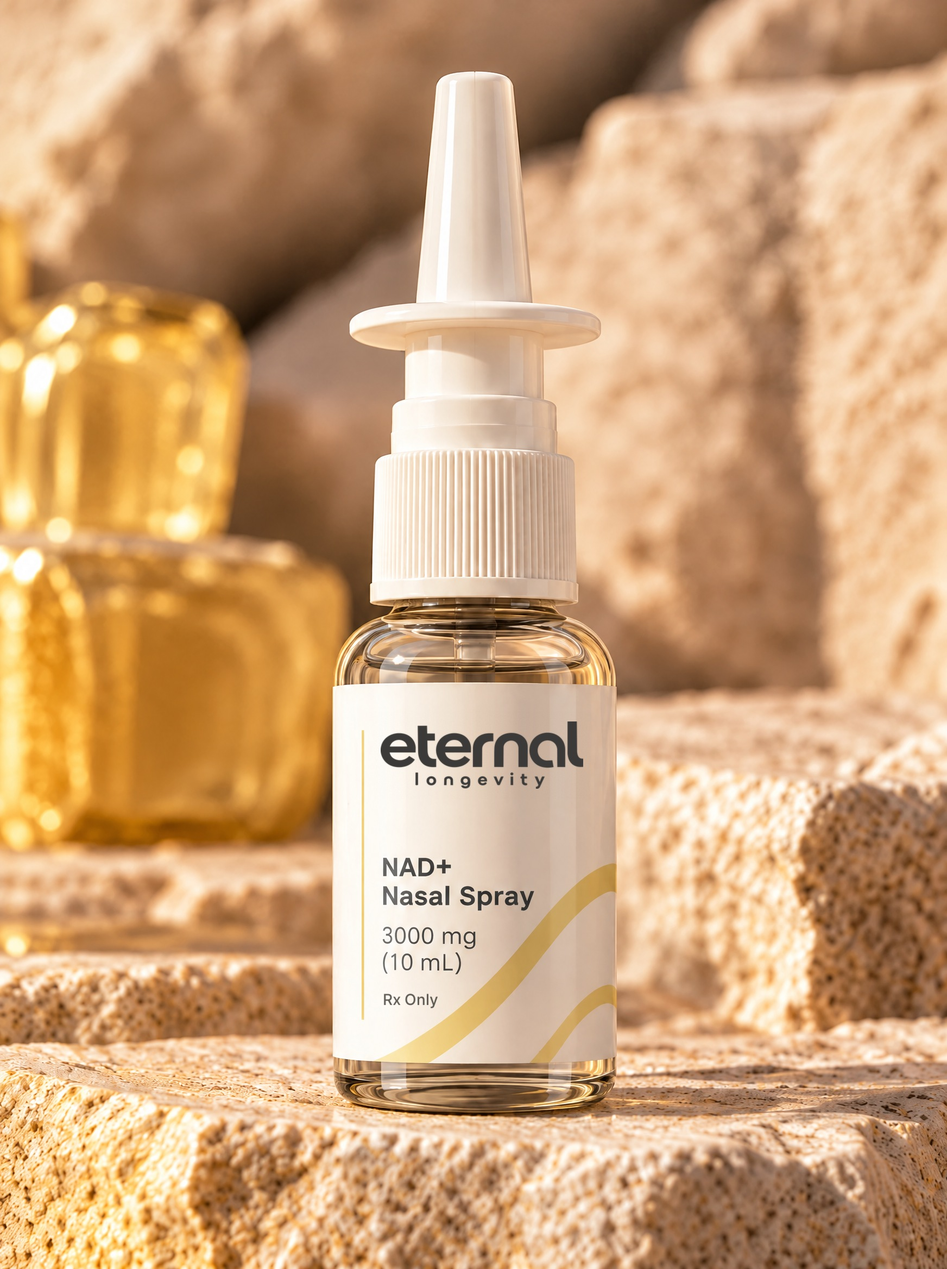
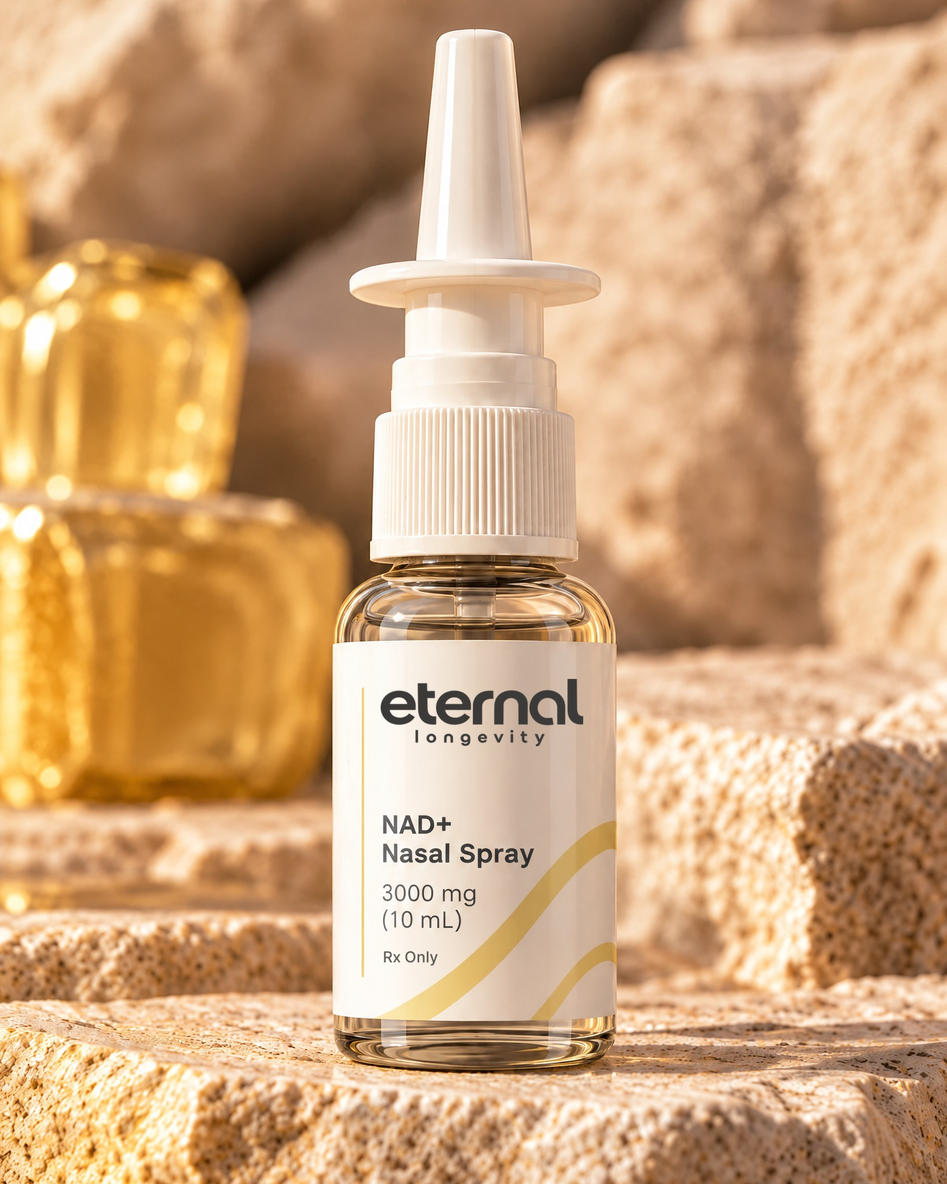
Mobile product page to Apple HIG: list-style plan picker, 44pt targets, one-column title
- Plan picker: one 56px row per plan (radio, label + save badge, price)
  instead of four cramped tiles.
- Name, tagline and price stacked; body text 16px, secondary 13-14px.
- CTA 52px/17px; buy bar button 44px and a larger Change target.
- viewport-fit=cover so the buy bar clears the iPhone home indicator.
- Category strip tucks away on scroll-down on phones, back on scroll-up.
- $1,248 thousands separators; less empty space above the photo.
- NAD+ nasal photo cropped to 4:5 like the rest (product untouched).

diff --git a/src/components/shop/ProductPDPMobile.tsx b/src/components/shop/ProductPDPMobile.tsx
@@ -7,7 +7,7 @@ import { Check } from 'lucide-react';
 import { cadenceTiersForProduct, defaultTier, type CadenceTier, type ShopProduct } from '@/lib/shopProducts';
 import { useCart } from '@/components/cart/CartProvider';
 import { BuyBar, ctaTarget, useCtaOffscreen } from './BuyBar';
-import { billedLine, Disclosure, MonthlyRate, PlanSegments, ProductDetails, ProductImage, shippingLine, shippingNote } from './pdpParts';
+import { billedLine, usd, Disclosure, MonthlyRate, PlanSegments, ProductDetails, ProductImage, shippingLine, shippingNote } from './pdpParts';
 import type { ShippingSettings } from '@/lib/shipping-settings';
 
 interface ProductPDPMobileProps {
@@ -63,24 +63,19 @@ export function ProductPDPMobile({ product, shipping, ctaHref, ctaLabel = 'Start
         className="mx-auto aspect-[4/5] h-[36svh] min-h-[240px]"
       />
 
-      <div className="mt-4 flex items-end justify-between gap-4">
-        <div className="min-w-0">
-          {/* The desktop variant (ProductPDP) carries the page's one <h1>. This one is a level-1
-              heading only to assistive tech, which sees just the variant that is displayed. */}
-          <p role="heading" aria-level={1} className="text-[36px] font-semibold leading-[0.95] tracking-[-0.05em] text-ink [text-wrap:balance]">{product.name}</p>
-          <p className="mt-1.5 text-[14px] text-ink-soft">{product.tagline}</p>
-        </div>
-        <div className="shrink-0 text-right tabular-nums">
-          <p className="flex items-baseline justify-end gap-1.5">
-            <span className="text-[30px] font-semibold leading-none tracking-[-0.04em]">${active.perMonth}</span>
-            <span className="text-[14px] text-ink-soft">/mo</span>
-          </p>
-          <MonthlyRate product={product} active={active} className="mt-1 block text-[11px]" />
-        </div>
+      {/* One column, top to bottom (iOS product pages): name, what it's for, price. Nothing squeezed side by side. */}
+      <div className="mt-5">
+        {/* The desktop variant (ProductPDP) carries the page's one <h1>. This one is a level-1
+            heading only to assistive tech, which sees just the variant that is displayed. */}
+        <p role="heading" aria-level={1} className="text-[34px] font-semibold leading-[1.02] tracking-[-0.04em] text-ink [text-wrap:balance]">{product.name}</p>
+        <p className="mt-1.5 text-[16px] leading-snug text-ink-soft">{product.tagline}</p>
+        <p className="mt-3 flex flex-wrap items-baseline gap-x-2 gap-y-1 tabular-nums">
+          <span className="text-[28px] font-semibold leading-none tracking-[-0.03em]">${active.perMonth}<span className="text-[16px] font-normal text-ink-soft">/mo</span></span>
+          <MonthlyRate product={product} active={active} className="text-[14px]" />
+        </p>
       </div>
 
-      {/* Full width under the name and price, not squeezed beside the price. */}
-      <p className="mt-3 text-[15px] leading-relaxed text-ink/80">{EXPLAINER[product.id] ?? product.shortDescription}</p>
+      <p className="mt-4 text-[16px] leading-relaxed text-ink/80">{EXPLAINER[product.id] ?? product.shortDescription}</p>
 
       {pickPlan && (
         <div ref={planRef} className="mt-5 scroll-mt-40">
@@ -92,7 +87,7 @@ export function ProductPDPMobile({ product, shipping, ctaHref, ctaLabel = 'Start
         {href ? (
           <Link
             href={href}
-            className="block w-full rounded-full bg-butter px-5 py-4 text-center text-[15px] font-semibold text-ink transition-colors hover:bg-butter-deep"
+            className="flex min-h-[52px] w-full items-center justify-center rounded-full bg-butter px-5 text-center text-[17px] font-semibold text-ink transition-colors hover:bg-butter-deep"
           >
             {ctaLabel}
           </Link>
@@ -100,24 +95,24 @@ export function ProductPDPMobile({ product, shipping, ctaHref, ctaLabel = 'Start
           <button
             type="button"
             onClick={handleAddToCart}
-            className="block w-full rounded-full bg-butter px-5 py-4 text-center text-[15px] font-semibold text-ink transition-colors hover:bg-butter-deep"
+            className="flex min-h-[52px] w-full items-center justify-center rounded-full bg-butter px-5 text-center text-[17px] font-semibold text-ink transition-colors hover:bg-butter-deep"
           >
-            Add to Cart. ${active.total}
+            Add to cart · ${usd(active.total)}
           </button>
         )}
-        {pickPlan && <p className="mt-2.5 text-center text-[12px] text-ink/65 tabular-nums">
+        {pickPlan && <p className="mt-3 text-center text-[13px] leading-snug text-ink/65 tabular-nums">
           {billedLine(active)} · {shippingLine(product)} · {active.key === 'annual' ? 'cancel before your next yearly billing' : 'cancel anytime'}
         </p>}
-        <p className="mt-1 text-center text-[12px] text-ink/65 tabular-nums">{shippingNote(shipping)}</p>
+        <p className="mt-1 text-center text-[13px] leading-snug text-ink/65 tabular-nums">{shippingNote(shipping)}</p>
       </div>
 
       {/* Below the fold: what the chosen plan includes, then the rest. */}
       <div className="mt-10 rounded-shell bg-milk p-5">
         <p className="text-[13px] font-medium text-ink/65">Compounded by a licensed 503A pharmacy</p>
-        <p className="mt-4 text-[15px] font-semibold tracking-[-0.01em]">{active.label} includes</p>
+        <p className="mt-4 text-[17px] font-semibold tracking-[-0.01em]">{active.label} includes</p>
         <ul className="mt-3 space-y-2">
           {active.breakdown.map((line) => (
-            <li key={line} className="flex items-start gap-2.5 text-[14px] leading-relaxed text-ink-soft">
+            <li key={line} className="flex items-start gap-2.5 text-[15px] leading-relaxed text-ink-soft">
               <Check aria-hidden className="mt-[3px] h-4 w-4 shrink-0" strokeWidth={2} />
               {line}
             </li>
@@ -126,7 +121,7 @@ export function ProductPDPMobile({ product, shipping, ctaHref, ctaLabel = 'Start
       </div>
 
       <div className="mt-6 space-y-3 border-t border-ink/10 pt-5">
-        <p className="text-[14px] leading-relaxed text-ink-soft">
+        <p className="text-[15px] leading-relaxed text-ink-soft">
           <span className="font-medium text-ink">Important. </span>
           This medication is compounded by a licensed 503A pharmacy against a prescription. Not a substitute
           for medical care; do not use if pregnant, nursing, or under 18.

diff --git a/src/components/shop/pdpParts.tsx b/src/components/shop/pdpParts.tsx
@@ -67,10 +67,13 @@ export function ProductImage({
 }
 
 /** "Billed $149 monthly", "Billed $402 every 3 months", "Billed $1248 once a year · ships every 6 months". */
+/** Whole dollars with a thousands separator: 1248 -> 1,248. */
+export const usd = (n: number) => n.toLocaleString('en-US');
+
 export const billedLine = (t: CadenceTier) =>
   t.key === 'annual'
-    ? `Billed $${t.total} once a year · ships every 6 months`
-    : `Billed $${t.total} ${t.key === 'monthly' ? 'monthly' : `every ${t.key === 'sixMonth' ? 6 : 3} months`}`;
+    ? `Billed $${usd(t.total)} once a year · ships every 6 months`
+    : `Billed $${usd(t.total)} ${t.key === 'monthly' ? 'monthly' : `every ${t.key === 'sixMonth' ? 6 : 3} months`}`;
 
 /** "Free shipping on your first order · $20 per box after" (Admin → Settings). */
 export const shippingNote = (s: ShippingSettings) =>
@@ -126,8 +129,9 @@ export function PlanSegments({
   onSelect: (key: CadenceTier['key']) => void;
   pulse?: boolean;
 }) {
+  // Phones: one row per plan, like an iOS list: a 56px target, a radio that reads by shape, label left, price right.
   return (
-    <div role="radiogroup" aria-label="Plan" className={cn('grid gap-1.5', tiers.length > 3 ? 'grid-cols-4' : 'grid-cols-3')}>
+    <div role="radiogroup" aria-label="Plan" className="space-y-2">
       {tiers.map((t) => {
         const on = t.key === selected;
         return (
@@ -138,20 +142,21 @@ export function PlanSegments({
             aria-checked={on}
             onClick={() => onSelect(t.key)}
             className={cn(
-              'relative flex flex-col items-center rounded-inner px-1 pb-2 pt-2.5 text-center transition-[box-shadow,background-color,color] duration-300',
-              on ? 'bg-ink text-white ring-2 ring-ink' : 'bg-milk text-ink ring-1 ring-transparent'
+              'flex min-h-[56px] w-full items-center gap-3 rounded-inner px-4 py-3 text-left transition-[box-shadow,background-color] duration-300',
+              on ? 'bg-white ring-2 ring-ink' : 'bg-milk ring-1 ring-transparent'
             )}
             style={pulse && on ? { boxShadow: '0 0 0 5px rgba(247,221,116,0.7)' } : undefined}
           >
-            {t.saveLabel && (
-              <span className="absolute -top-2 rounded-full bg-butter px-1.5 py-px text-[10px] font-semibold text-ink">
-                {t.saveLabel}
-              </span>
-            )}
-            <span className="text-[13px] font-medium">{t.label}</span>
-            <span className="mt-0.5 text-[15px] font-semibold tabular-nums">
+            <span aria-hidden className={cn('grid h-[22px] w-[22px] shrink-0 place-items-center rounded-full border-2', on ? 'border-ink' : 'border-ink/30')}>
+              {on && <span className="h-3 w-3 rounded-full bg-ink" />}
+            </span>
+            <span className="flex min-w-0 flex-1 flex-wrap items-center gap-x-2 gap-y-1">
+              <span className="text-[16px] font-semibold tracking-[-0.01em]">{t.label}</span>
+              {t.saveLabel && <span className="rounded-full bg-butter px-2 py-0.5 text-[12px] font-semibold text-ink">{t.saveLabel}</span>}
+            </span>
+            <span className="shrink-0 text-[16px] font-semibold tabular-nums">
               ${t.perMonth}
-              <span className={cn('text-[11px] font-normal', on ? 'text-white/70' : 'text-ink/65')}>/mo</span>
+              <span className="text-[13px] font-normal text-ink-soft">/mo</span>
             </span>
           </button>
         );
@@ -217,7 +222,7 @@ export function PlanOptions({
                   ${t.perMonth}
                   <span className="text-[13px] font-normal text-ink-soft">/mo</span>
                 </span>
-                <span className="block text-[12px] text-ink/65">${t.total} billed</span>
+                <span className="block text-[12px] text-ink/65">${usd(t.total)} billed</span>
               </span>
             </button>
           );

diff --git a/src/components/shop/BuyBar.tsx b/src/components/shop/BuyBar.tsx
@@ -65,7 +65,7 @@ export function BuyBar({
   onChangePlan?: () => void;
 }) {
   const ctaCls =
-    'shrink-0 rounded-full bg-butter px-4 py-2.5 text-[13px] font-semibold text-ink transition-colors hover:bg-butter-deep md:px-5 md:py-3 md:text-[14px]';
+    'flex min-h-[44px] shrink-0 items-center rounded-full bg-butter px-5 text-[15px] font-semibold text-ink transition-colors hover:bg-butter-deep md:px-5 md:py-3 md:text-[14px]';
 
   return (
     <div
@@ -85,7 +85,7 @@ export function BuyBar({
 
         <div className="min-w-0 flex-1">
           <p className="truncate text-[17px] font-semibold leading-none tracking-[-0.03em] md:text-[20px]">{product.name}</p>
-          <p className="mt-1 flex items-center gap-2 truncate text-[12px] text-ink-soft">
+          <p className="mt-1 flex items-center gap-2 truncate text-[13px] text-ink-soft">
             {/* Plan name drops on phones so the price always fits. */}
             <span className="truncate">
               <span className="hidden sm:inline">{active.label} · </span>
@@ -95,7 +95,7 @@ export function BuyBar({
               <button
                 type="button"
                 onClick={onChangePlan}
-                className="shrink-0 underline decoration-ink/30 underline-offset-[3px] transition-colors hover:text-ink hover:decoration-ink"
+                className="-my-3 shrink-0 py-3 underline decoration-ink/30 underline-offset-[3px] transition-colors hover:text-ink hover:decoration-ink"
               >
                 Change
               </button>

diff --git a/src/components/nav/Header.tsx b/src/components/nav/Header.tsx
@@ -47,10 +47,20 @@ function useSessionHome(): string | null {
  */
 export function Header({ categoryStrip = false, overlay = false }: { categoryStrip?: boolean; overlay?: boolean }) {
   const [scrolled, setScrolled] = useState(false);
+  // Phones: the category strip tucks away while scrolling down and returns on any scroll up (as Safari's bars do).
+  const [tuck, setTuck] = useState(false);
   const home = useSessionHome();
 
   useEffect(() => {
-    const onScroll = () => setScrolled(window.scrollY > 24);
+    let lastY = window.scrollY;
+    const onScroll = () => {
+      const y = window.scrollY;
+      setScrolled(y > 24);
+      if (Math.abs(y - lastY) > 6) {
+        setTuck(y > lastY && y > 120);
+        lastY = y;
+      }
+    };
     onScroll();
     window.addEventListener('scroll', onScroll, { passive: true });
     return () => window.removeEventListener('scroll', onScroll);
@@ -151,7 +161,11 @@ export function Header({ categoryStrip = false, overlay = false }: { categoryStr
           </div>
         </div>
 
-        {categoryStrip && <CategoryStrip glass={glass} onPhoto={onPhoto} />}
+        {categoryStrip && (
+          <div className={cn('transition-[opacity,transform] duration-300 ease-out', tuck && 'max-md:pointer-events-none max-md:-translate-y-3 max-md:opacity-0')}>
+            <CategoryStrip glass={glass} onPhoto={onPhoto} />
+          </div>
+        )}
         <ShopMenu open={shopOpen} onClose={() => setShopOpen(false)} />
       </div>
     </header>

diff --git a/src/app/shop/[id]/page.tsx b/src/app/shop/[id]/page.tsx
@@ -74,7 +74,7 @@ export default async function PublicProductPage({ params }: PageProps) {
       <Header categoryStrip />
       {/* --pdp-sticky-top: the buy column sticks just under the fixed header + product strip (134px). */}
       <main className="bg-white text-ink" style={{ '--pdp-sticky-top': '158px', '--pdp-fit': '284px' } as React.CSSProperties}>
-        <section className="px-5 pb-16 pt-44 md:px-10 md:pb-24 md:pt-52">
+        <section className="px-5 pb-16 pt-36 md:px-10 md:pb-24 md:pt-52">
           <nav aria-label="Breadcrumb" className="mb-6 hidden items-center gap-2 text-[13px] font-medium text-ink/65 md:flex">
             <Link href="/shop" className="transition-colors hover:text-ink">
               Shop

diff --git a/src/app/layout.tsx b/src/app/layout.tsx
@@ -104,6 +104,8 @@ export const viewport: Viewport = {
   themeColor: '#FFFFFF',
   width: 'device-width',
   initialScale: 1,
+  // env(safe-area-inset-*) is 0 without this, so the buy bar could sit on the iPhone home indicator.
+  viewportFit: 'cover',
 };
 
 export default async function RootLayout({
